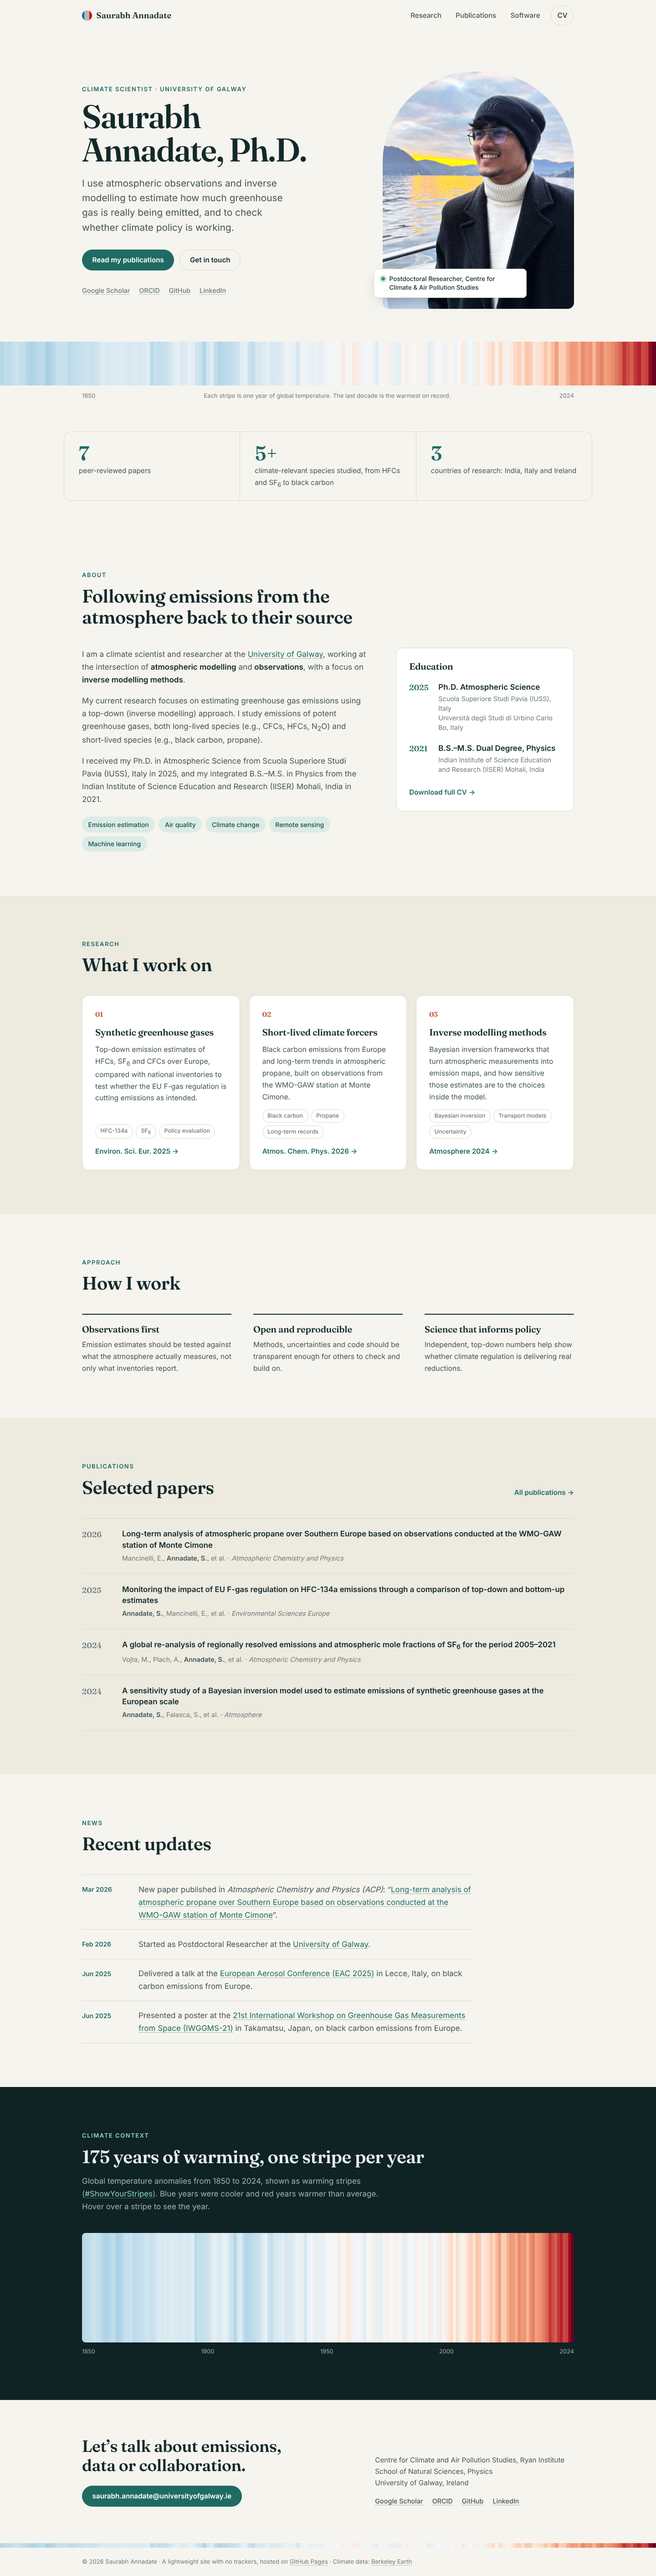
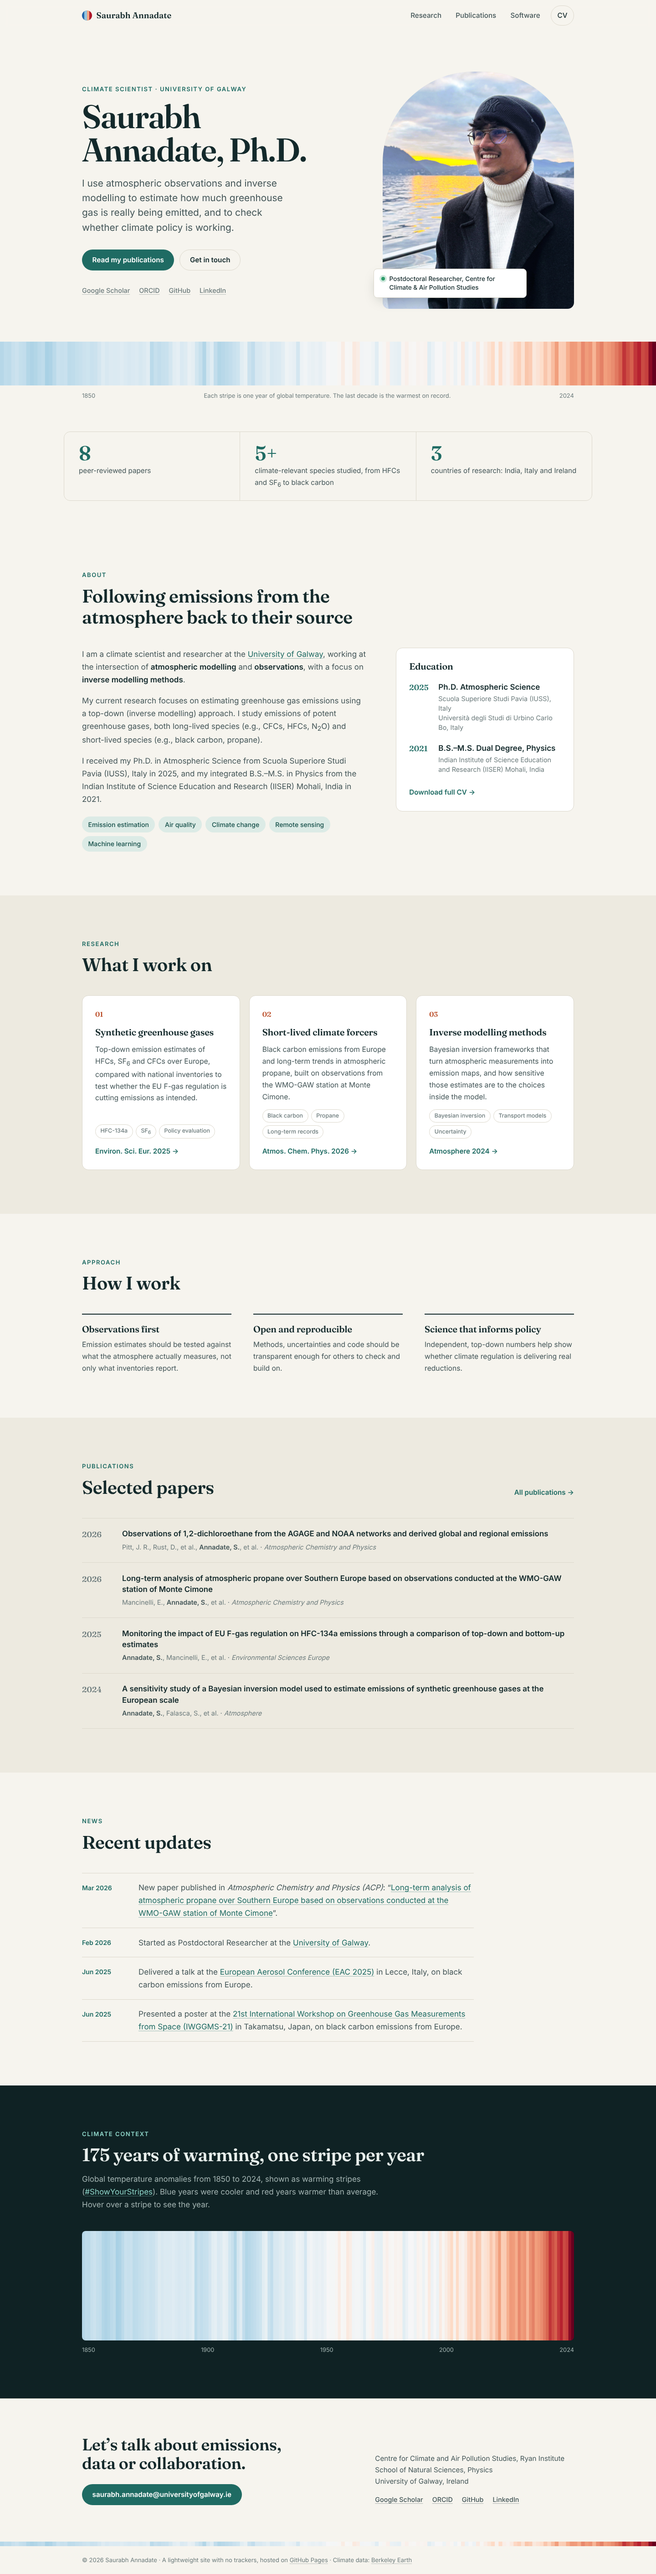
Add Pitt et al. 2026 to selected papers and update paper count
Claude-Session: https://claude.ai/code/session_01VWHZAcAu34WgvbFrVhZdBT

diff --git a/index.html b/index.html
@@ -80,7 +80,7 @@
         <!-- At a glance -->
         <section class="wrap facts" aria-label="At a glance">
             <div class="fact">
-                <span class="fact-value">7</span>
+                <span class="fact-value">8</span>
                 <span class="fact-label">peer-reviewed papers</span>
             </div>
             <div class="fact">
@@ -226,6 +226,13 @@
                     <li class="pub">
                         <span class="pub-year">2026</span>
                         <div>
+                            <a class="pub-title" href="https://doi.org/10.5194/acp-26-10167-2026">Observations of 1,2-dichloroethane from the AGAGE and NOAA networks and derived global and regional emissions</a>
+                            <p class="pub-meta">Pitt, J. R., Rust, D., et al., <strong>Annadate, S.</strong>, et al. · <em>Atmospheric Chemistry and Physics</em></p>
+                        </div>
+                    </li>
+                    <li class="pub">
+                        <span class="pub-year">2026</span>
+                        <div>
                             <a class="pub-title" href="https://doi.org/10.5194/acp-26-4105-2026">Long-term analysis of atmospheric propane over Southern Europe based on observations conducted at the WMO-GAW station of Monte Cimone</a>
                             <p class="pub-meta">Mancinelli, E., <strong>Annadate, S.</strong>, et al. · <em>Atmospheric Chemistry and Physics</em></p>
                         </div>
@@ -235,13 +242,6 @@
                         <div>
                             <a class="pub-title" href="https://doi.org/10.1186/s12302-025-01081-1">Monitoring the impact of EU F-gas regulation on HFC-134a emissions through a comparison of top-down and bottom-up estimates</a>
                             <p class="pub-meta"><strong>Annadate, S.</strong>, Mancinelli, E., et al. · <em>Environmental Sciences Europe</em></p>
-                        </div>
-                    </li>
-                    <li class="pub">
-                        <span class="pub-year">2024</span>
-                        <div>
-                            <a class="pub-title" href="https://doi.org/10.5194/acp-24-12465-2024">A global re-analysis of regionally resolved emissions and atmospheric mole fractions of SF<sub>6</sub> for the period 2005–2021</a>
-                            <p class="pub-meta">Vojta, M., Plach, A., <strong>Annadate, S.</strong>, et al. · <em>Atmospheric Chemistry and Physics</em></p>
                         </div>
                     </li>
                     <li class="pub">
